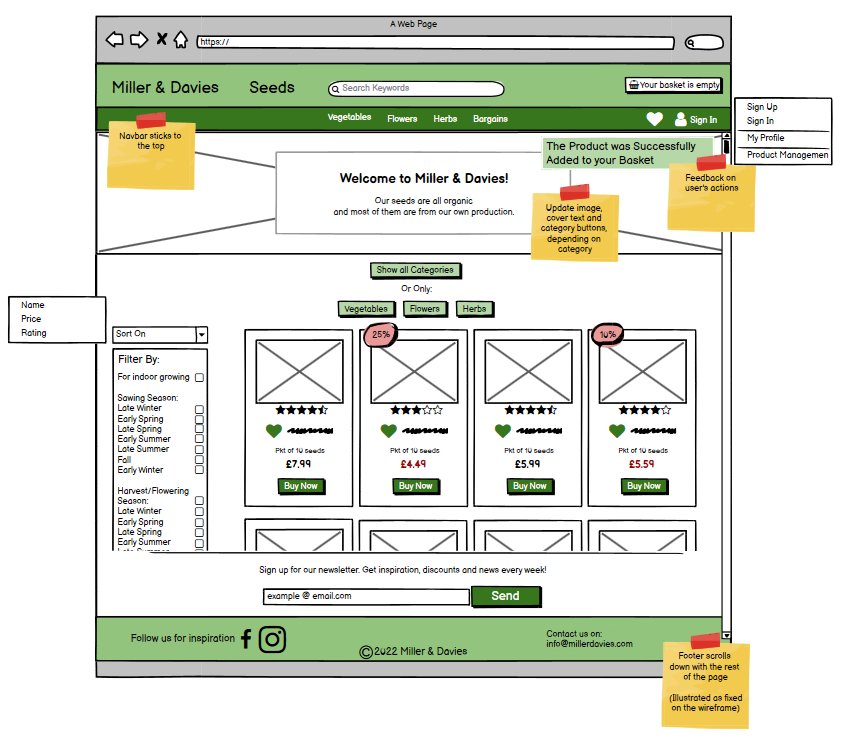
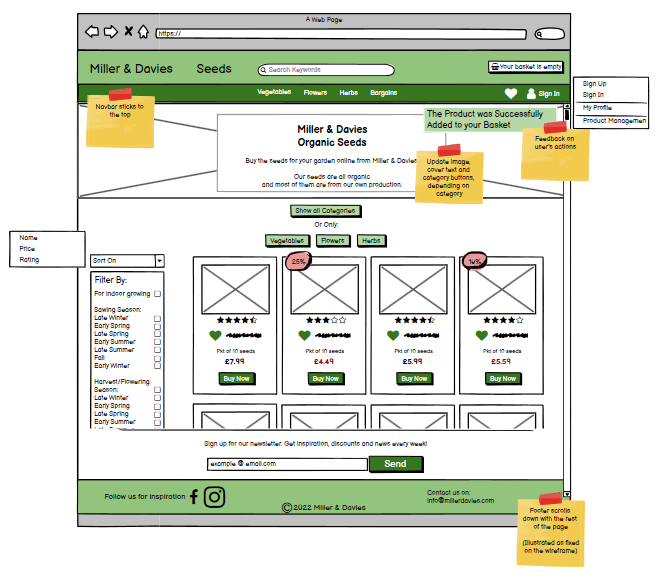
doc: Add SEO to the readme and update wireframe When adding the SEO result to the readme I realized I hadn't considered the results good enough when doing the wireframes. This resulted in a change on the products page.

Changed region(s): [[0.0, 0.0, 0.9836, 1.0], [0.2683, 0.276, 0.3279, 0.3066], [0.2683, 0.2147, 0.3279, 0.2453]]

diff --git a/README.md b/README.md
@@ -93,6 +93,20 @@ I soon realized that, since this was the first time I ran a project like this, i
 To illustrate the logic of the database I used [diagrams.net](https://www.diagrams.net/).
 ![Database diagram](documentation/images/database_diagram.png)
 
+### SEO
+By brainstorming for ideas, I came up with a number of words and expressions I thought would be relevant searches for a user looking for a site like this. After searching for them on Google, using “others search for” and “related searches”, and finally Wordtracker, I ended up with these words and phrases to use on the site to improve SEO:
+- organic seeds
+- gardening seeds
+- vegetable seeds
+- flower seeds
+- herb seeds
+- organic vegetable seeds
+- organic flower seeds
+- organic herb seeds
+- organic vegetable seeds online
+- seeds online
+- seeds for vegetables
+- seeds for garden
 
 ### Wireframes
 The wireframes for this project can be found on [this document](documentation/wireframes.md)
